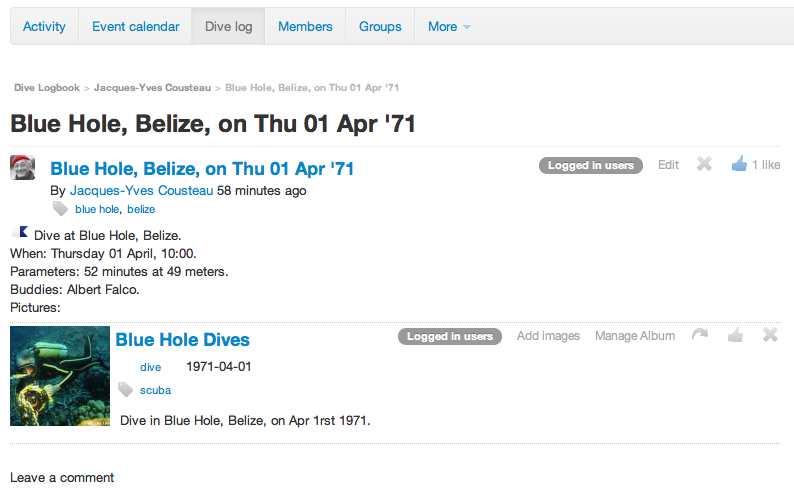
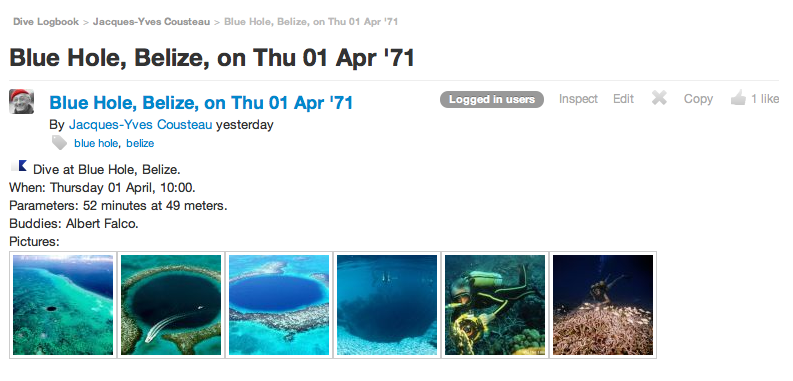
Display photo with dive. Added documentation.
Display photo stream in river & dive details.

diff --git a/views/default/object/gallery.php b/views/default/object/gallery.php
@@ -13,7 +13,7 @@ if (!$divelog) {
 	return;
 }
 
-get_divelog_galleries($divelog);
+set_divelog_galleries($divelog);
 
 /* Get galleries through relationship "divelog_media"
  */
@@ -35,14 +35,18 @@ if($existing_rels = elgg_get_entities_from_relationship($options)) {
 
 if ($galleries) {
 	echo elgg_echo('divelog:gallery');
-	
-	foreach($galleries as $gallery) {
-		// display nice stream
-		//echo $gallery->title;
-		echo elgg_view('object/hjalbum', array('entity' => $gallery, 'list_type' => 'river'));
-	}
-	
-	//echo elgg_view_entity_list($galleries, array('full_view' => false));
+	if(elgg_in_context('river')) { // display just one gallery
+		elgg_push_context('activity');
+		echo elgg_view('object/hjalbum', array('entity' => $gallery[0], 'list_type' => 'river'));
+		elgg_pop_context();
+	} else //  display them all
+		foreach($galleries as $gallery) {
+			// display nice stream
+			//echo $gallery->title;
+			elgg_push_context('activity');
+			echo elgg_view('object/hjalbum', array('entity' => $gallery, 'list_type' => 'river'));
+			elgg_pop_context();
+		}
 } else {
 	echo elgg_echo('divelog:nogallery');
 }

diff --git a/lib/divelog.php b/lib/divelog.php
@@ -206,7 +206,7 @@ function get_future_divelog_events($existing_planned_divelog_guids) {
  *
  * @param ElggObject $divelog A divelog object.
  */
-function get_divelog_related_dives($divelog) {
+function set_divelog_related_dives($divelog) {
 	//todo
 }
 
@@ -216,7 +216,7 @@ function get_divelog_related_dives($divelog) {
  *
  * @param ElggObject $divelog A divelog object.
  */
-function get_divelog_galleries($divelog) {
+function set_divelog_galleries($divelog) {
 	$dive_date = strftime(elgg_echo('divelog:hypeGallery:date_format'), $divelog->dive_date);
 
 	$options = array(

diff --git a/views/default/river/object/divelog/create.php b/views/default/river/object/divelog/create.php
@@ -9,8 +9,13 @@ elgg_load_library('divelog');
 $divelog = $vars['item']->getObjectEntity();
 $vars['excerpt'] = divelog_prettyprint($divelog, "river");
 
+$attachments = elgg_view('object/gallery', array('entity' => $divelog));
+$vars['attachments'] = $attachments;
+
+$body = elgg_view('river/elements/body', $vars);
+
 echo elgg_view('page/components/image_block', array(
 	'image' => '<img src="'.$vars['url'] . 'mod/divelog/graphics/divelog-small.png" />',
-	'body' => elgg_view('river/elements/body', $vars),
+	'body' => $body,
 	'class' => 'elgg-river-item',
 ));

diff --git a/actions/divelog/save.php b/actions/divelog/save.php
@@ -88,8 +88,8 @@ if ($divelog->save()) {
 		}
 	}
 	
-	get_divelog_galleries($divelog);
-	get_divelog_related_dives($divelog);
+	set_divelog_galleries($divelog);
+	set_divelog_related_dives($divelog);
 
 	system_message(elgg_echo('divelog:save:success'));
 
